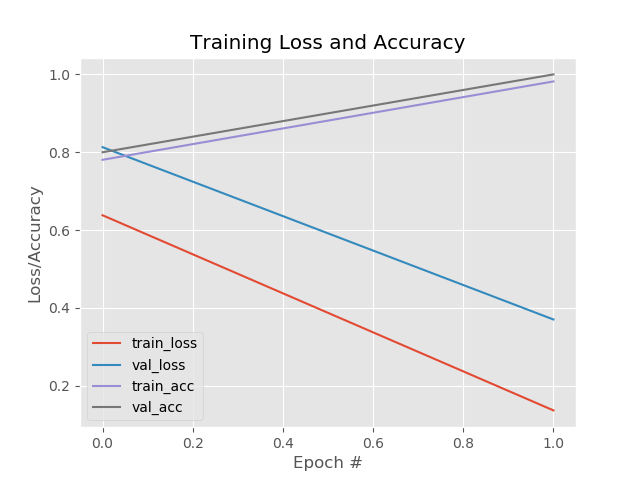
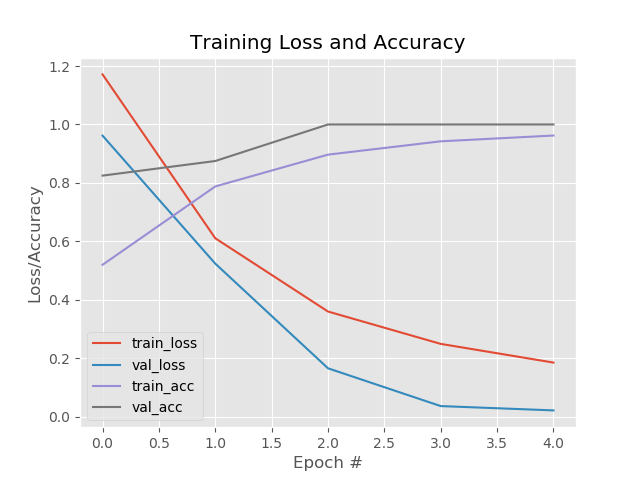
added data augmentation for training

diff --git a/utils/utils.py b/utils/utils.py
@@ -23,7 +23,17 @@ def plot_training(H, plotPath):
 
 
 def read_data():
-    trdata = ImageDataGenerator()
+    trdata = ImageDataGenerator(
+        horizontal_flip=True,
+        brightness_range=[0.3,1.0], 
+        zoom_range=0.2,
+        rotation_range=20, 
+        shear_range=0.2,
+        width_shift_range=0.2,
+        height_shift_range=0.2,
+        fill_mode='nearest'
+    )
+    
     train_data = trdata.flow_from_directory(directory="data/train",target_size=(224,224))
     tsdata = ImageDataGenerator()
     test_data = tsdata.flow_from_directory(directory="data/test", target_size=(224,224))

diff --git a/utils/config.py b/utils/config.py
@@ -4,7 +4,7 @@ IMG_SIZE = 224
 IMG_SHAPE = (IMG_SIZE, IMG_SIZE, 3)
 
 BATCH_SIZE = 8
-EPOCHS = 2
+EPOCHS = 5
 STEPS_PER_EPOCH = 100
 VALIDATION_STEPS = 10
 LEARNING_RATE = 0.0001
